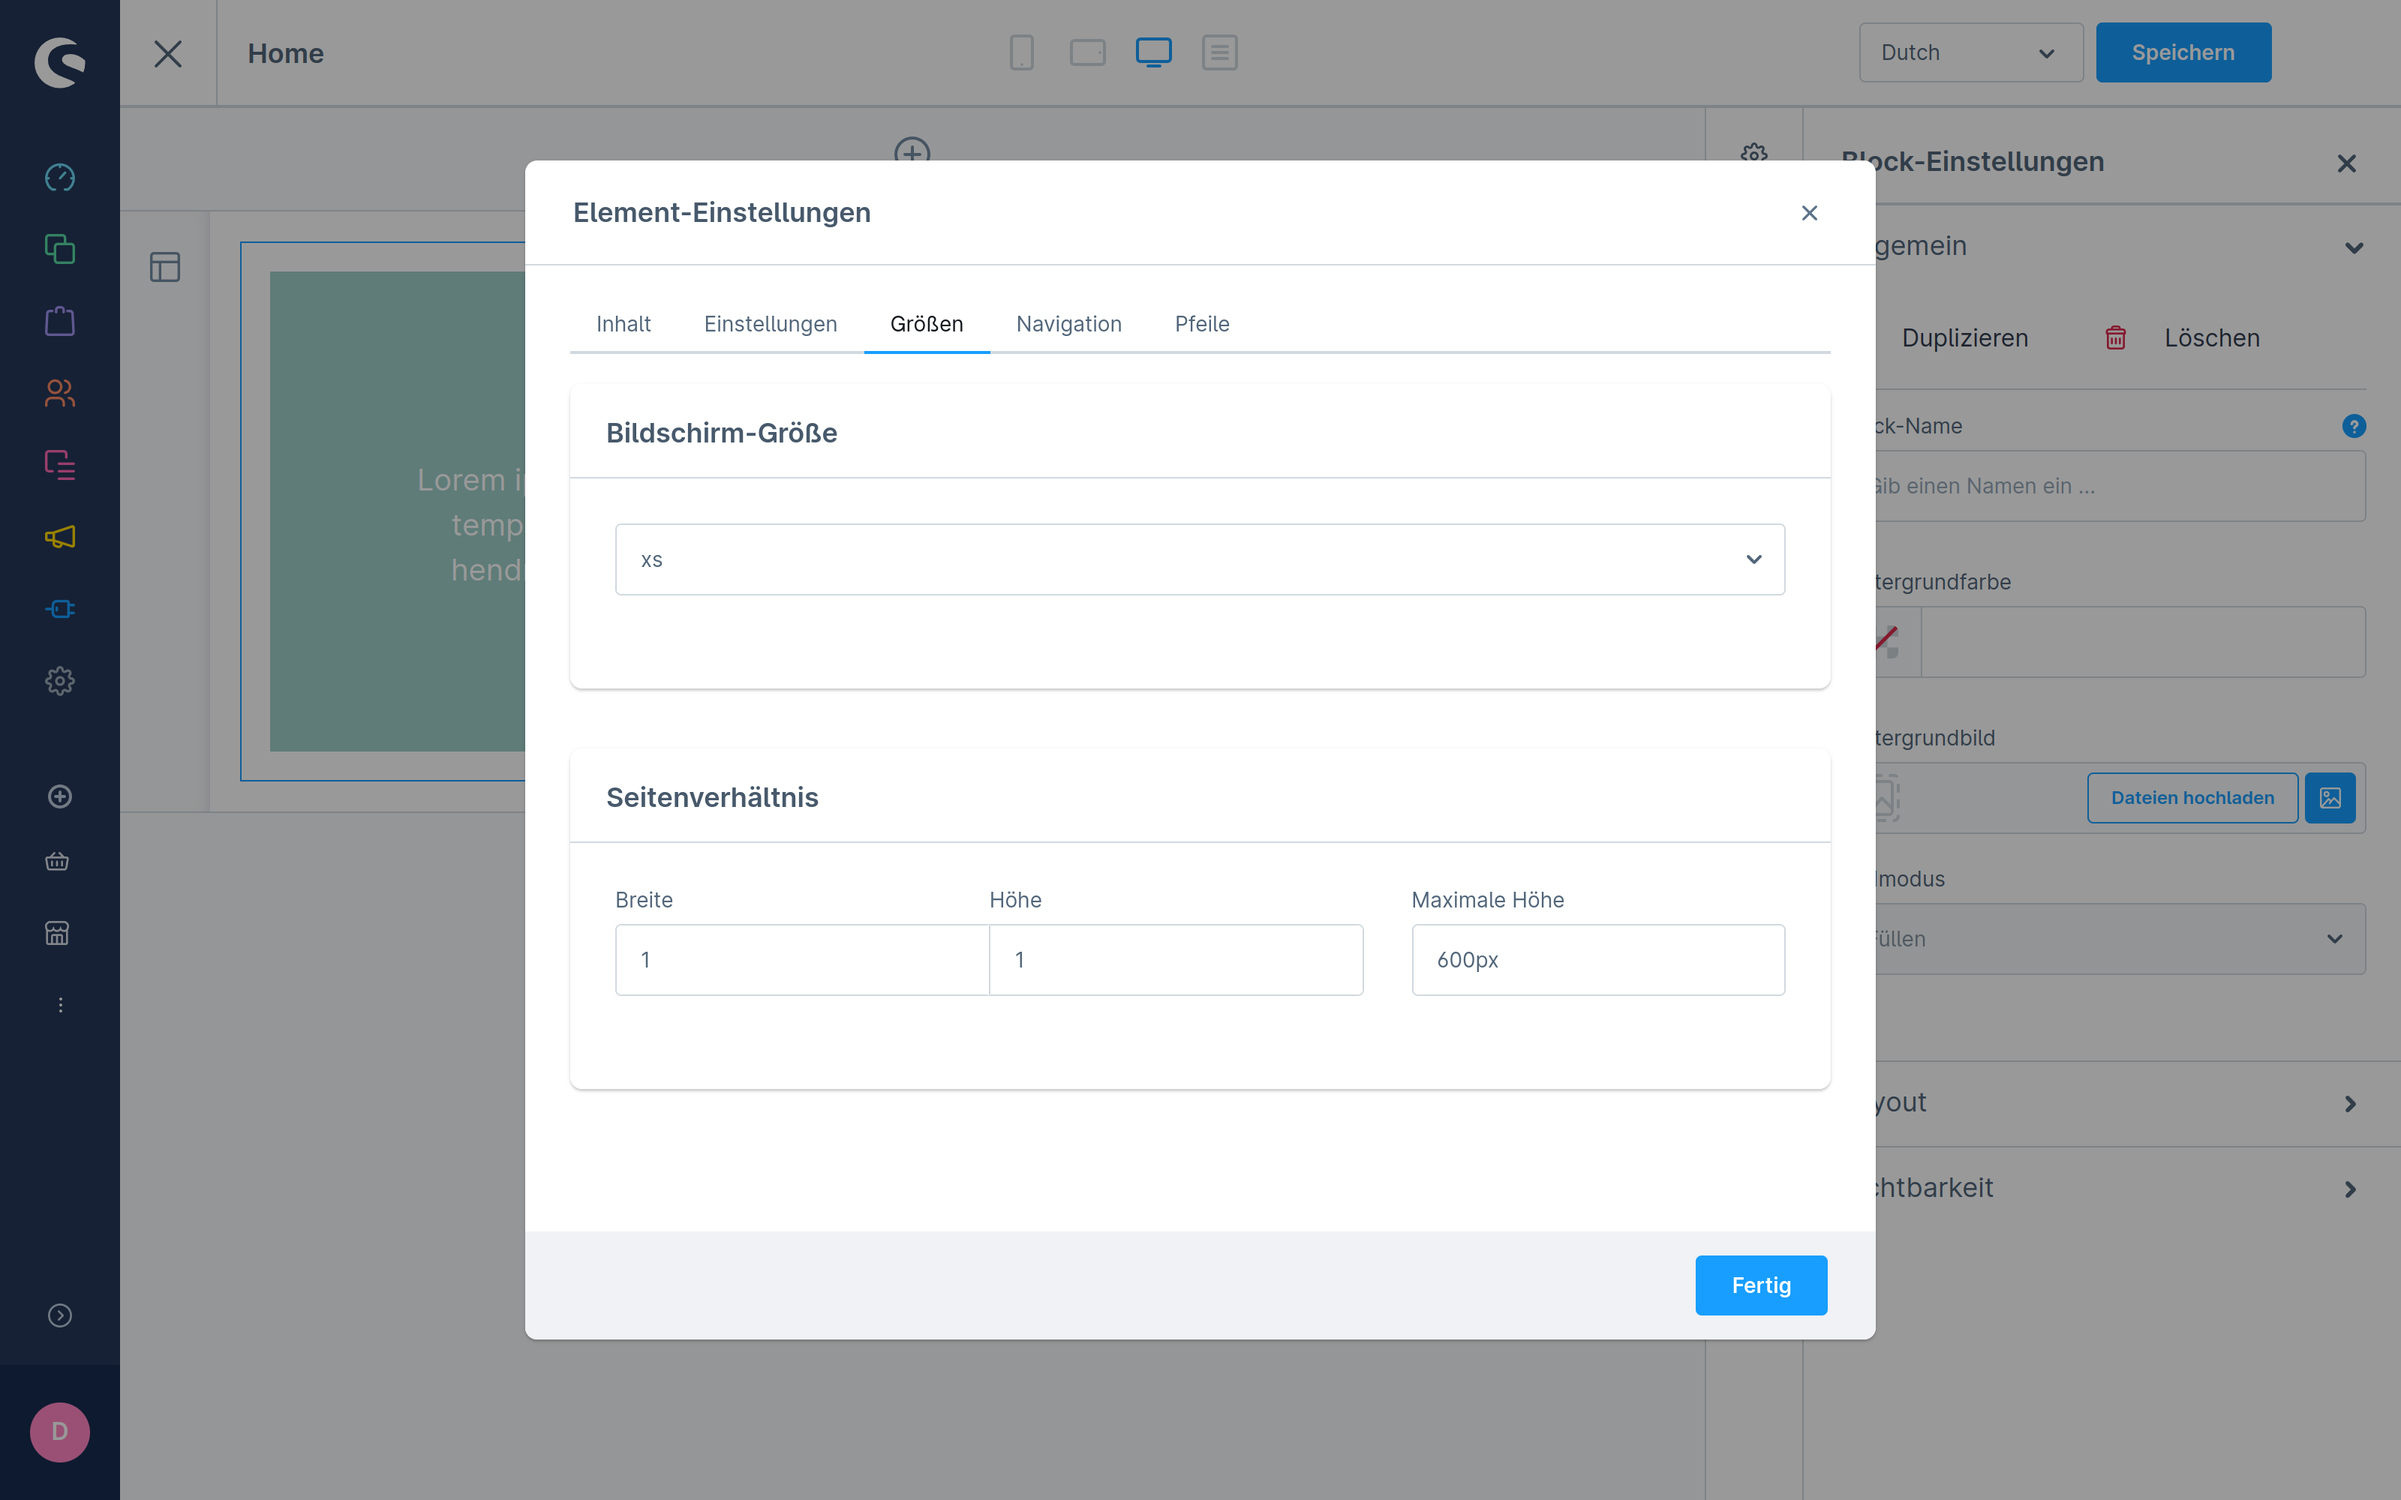
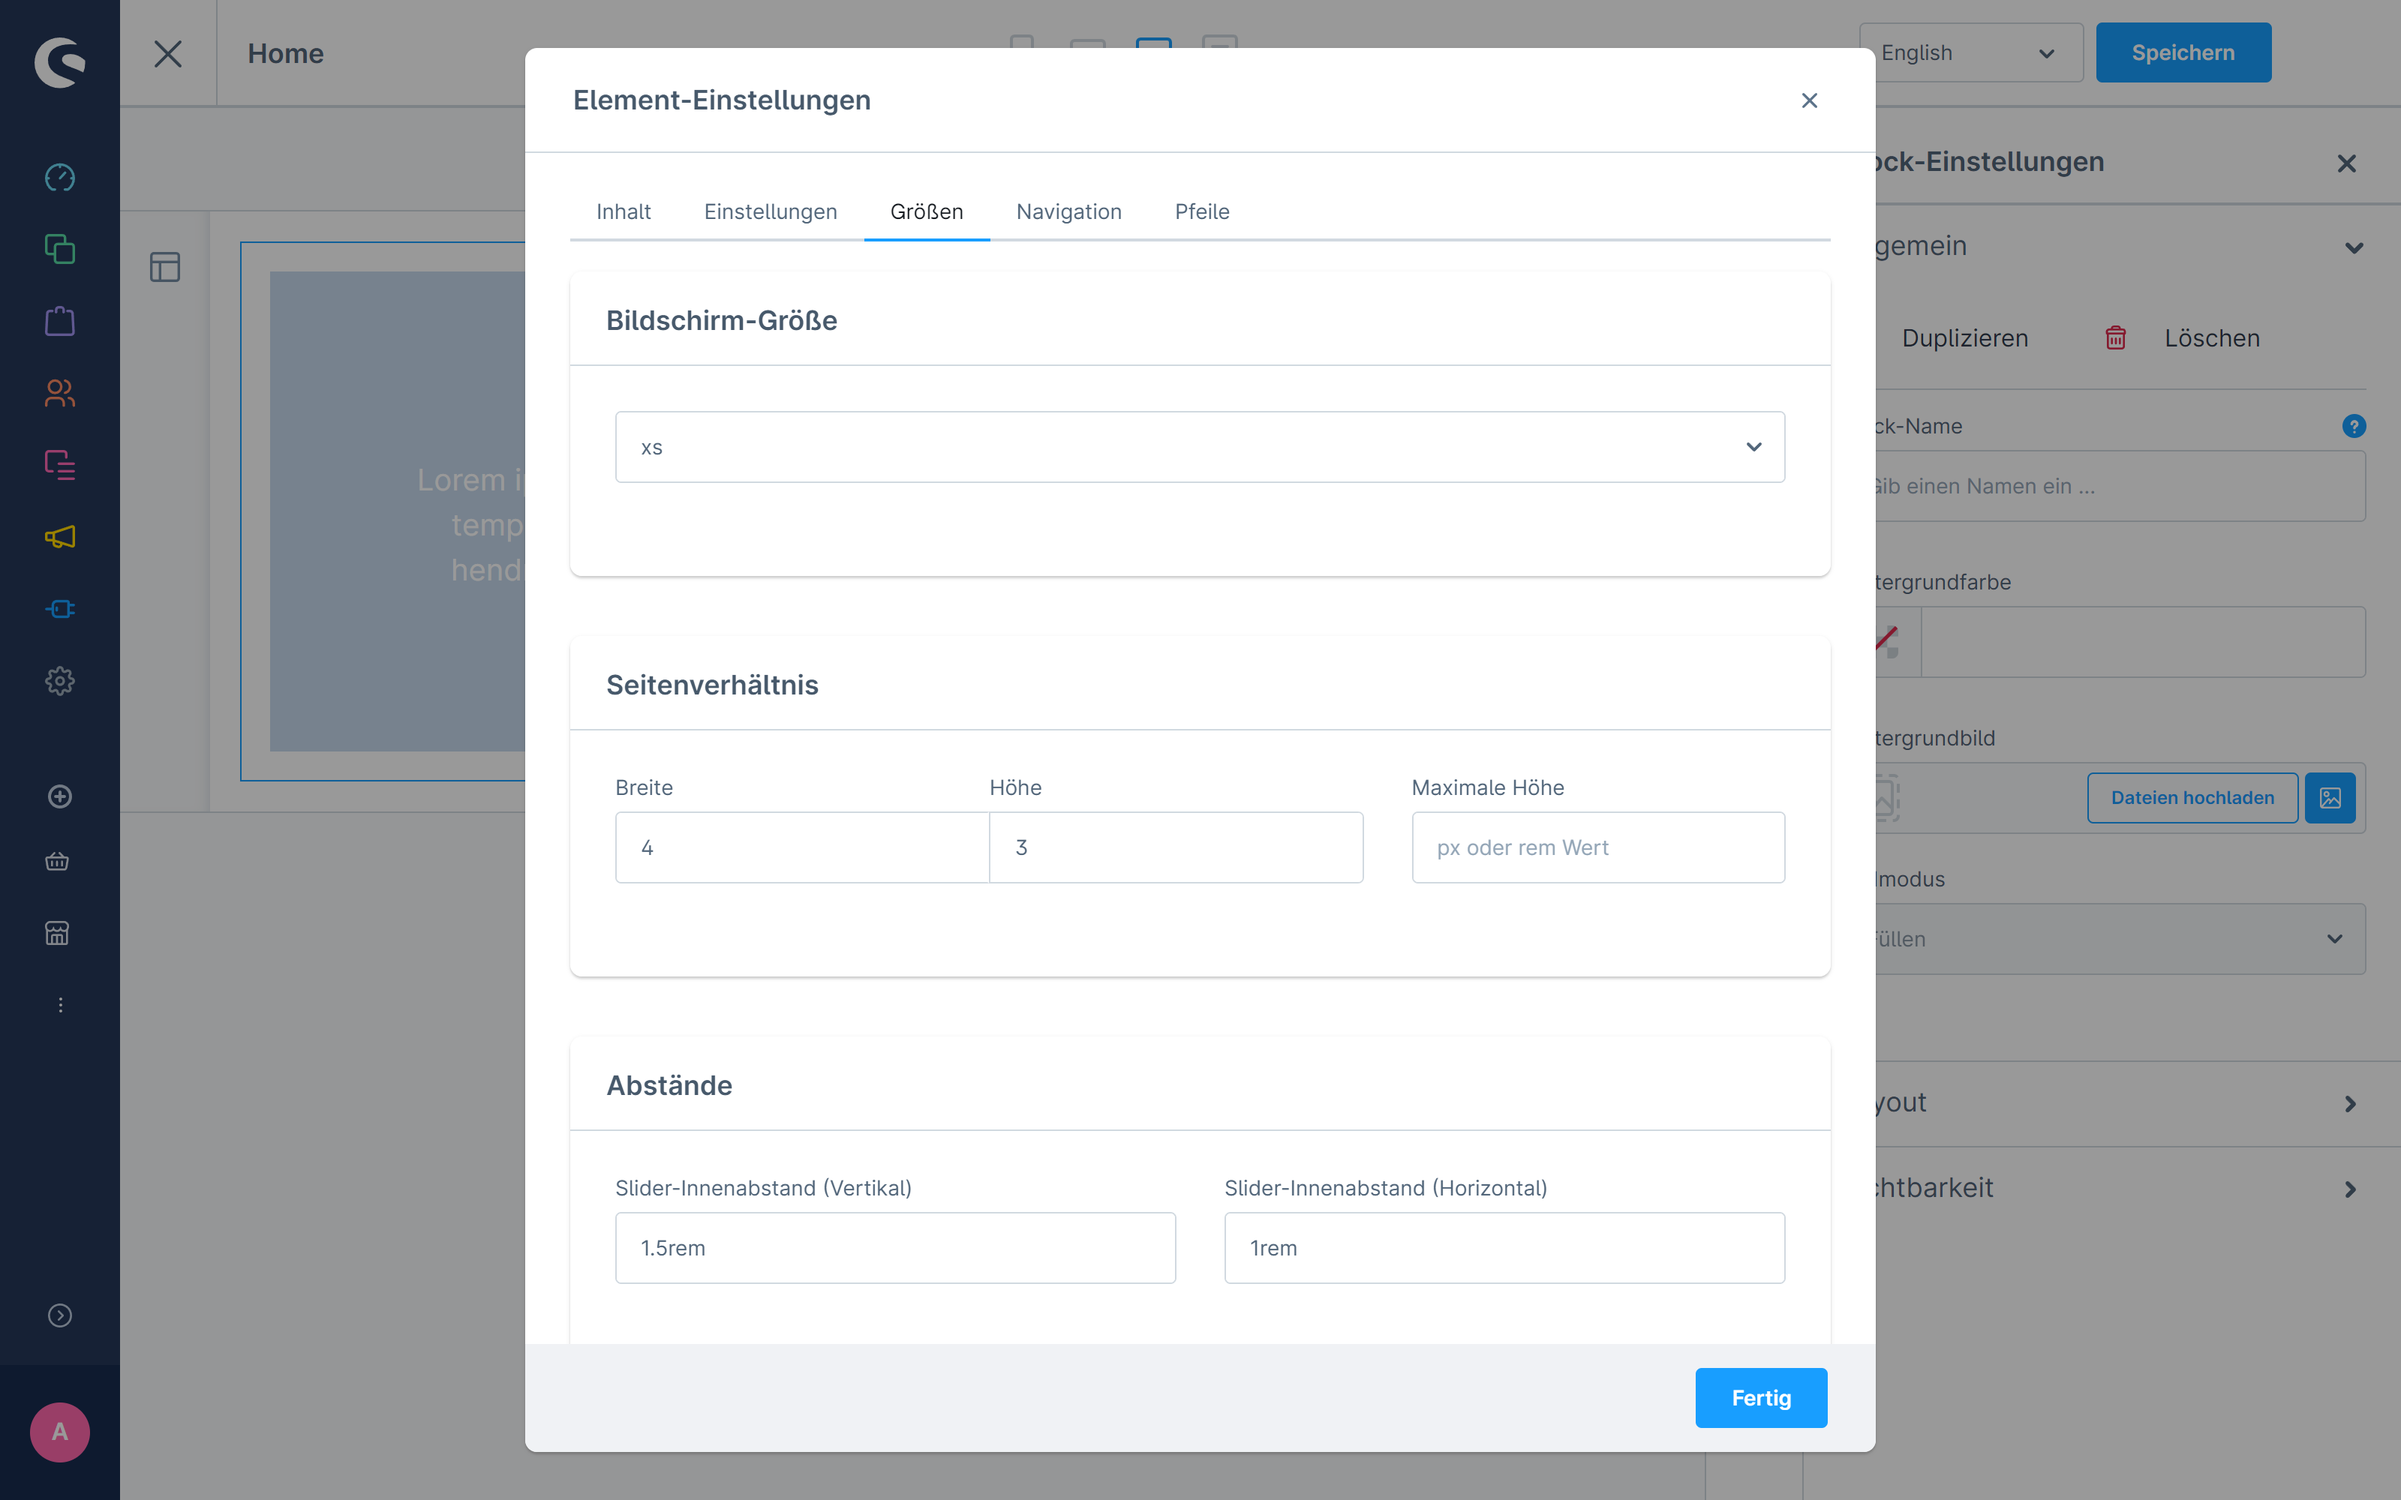
fix #10: update screenshots

diff --git a/content/documentation/slider-sizing.md b/content/documentation/slider-sizing.md
@@ -7,7 +7,7 @@ title: "Guides: Slider Sizing"
 To provide the best possible Responsive experience, the Elysium Slider works with aspect ratios instead of static pixel values. In the Slider CMS element you can find the aspect ratio settings.
 
 <Image
-    src="/screenshots/de/admin-cms-setting-aspect-ratio.png" 
+    src="/screenshots/en/admin-cms-setting-sizing.png" 
     alt="Aspect Ratio Settings in CMS Slider"
     :caption="true" />
 
